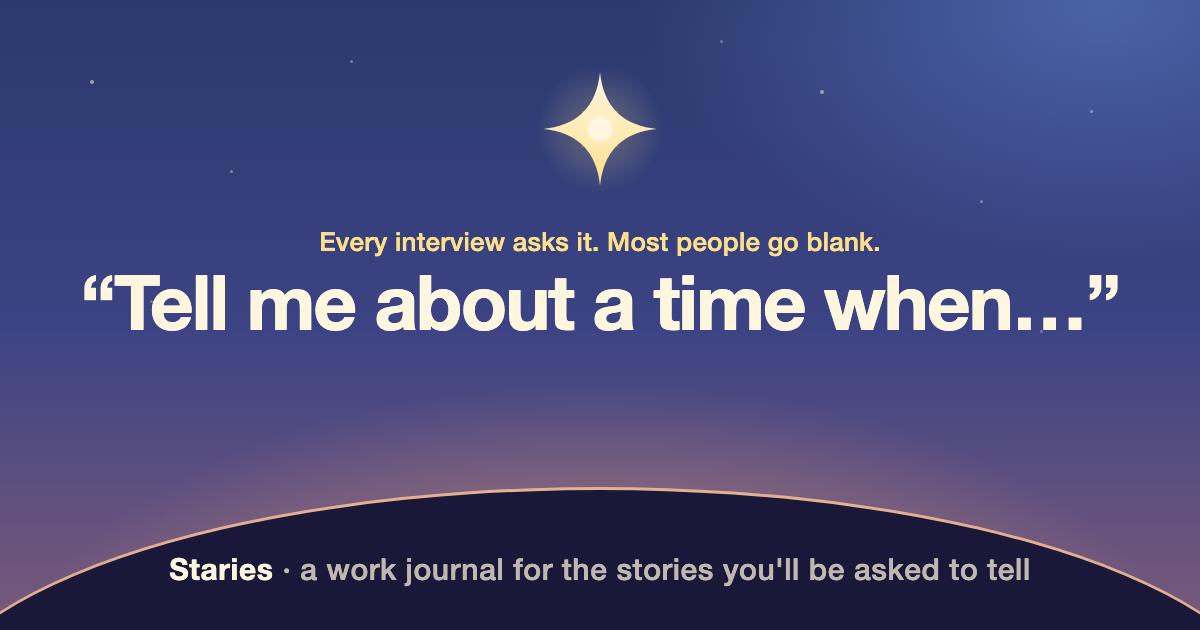
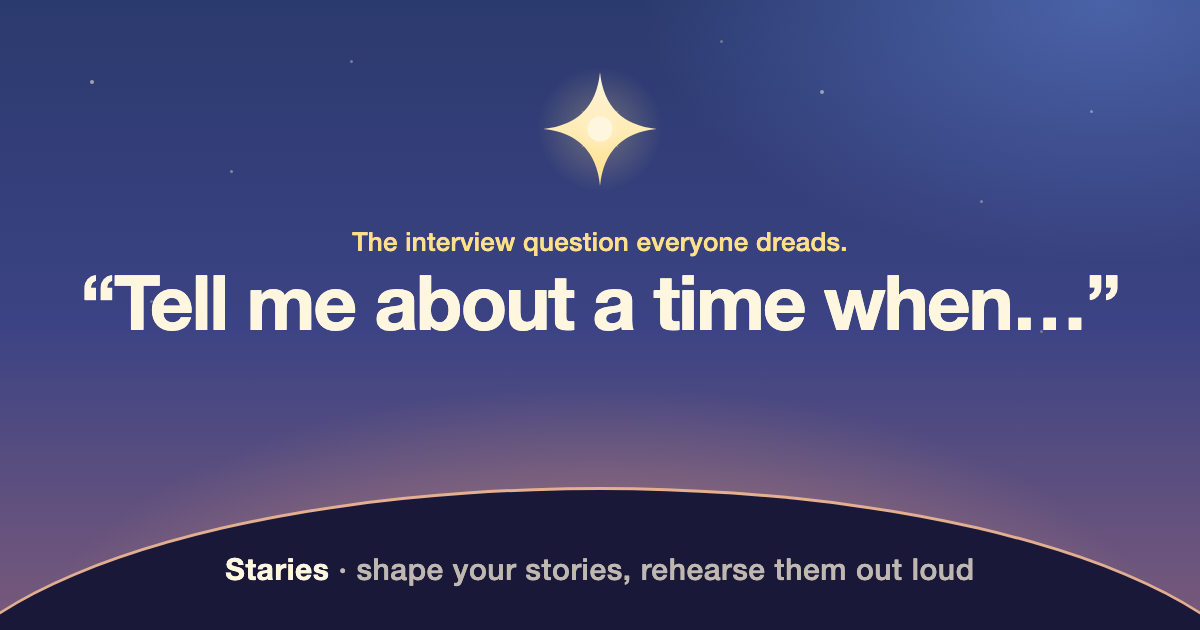
Regenerate OG image with new eyebrow and tagline

Changed region(s): [[0.1233, 0.8746, 0.8633, 0.9349], [0.2467, 0.3619, 0.74, 0.4222]]

diff --git a/index.html b/index.html
@@ -15,7 +15,7 @@
 <meta property="og:image" content="https://staries.app/og.png">
 <meta property="og:image:width" content="1200">
 <meta property="og:image:height" content="630">
-<meta property="og:image:alt" content="“Tell me about a time when…” Staries shapes your work stories the way interviewers expect and lets you rehearse them out loud.">
+<meta property="og:image:alt" content="The interview question everyone dreads. “Tell me about a time when…” Staries: shape your stories, rehearse them out loud.">
 <meta name="twitter:card" content="summary_large_image">
 <style>
   :root {
